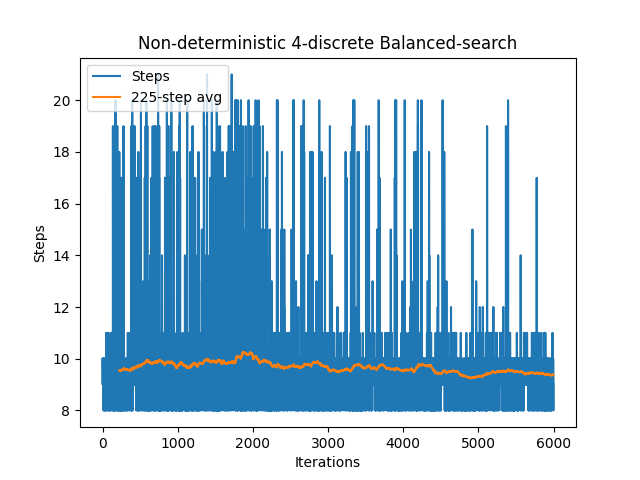
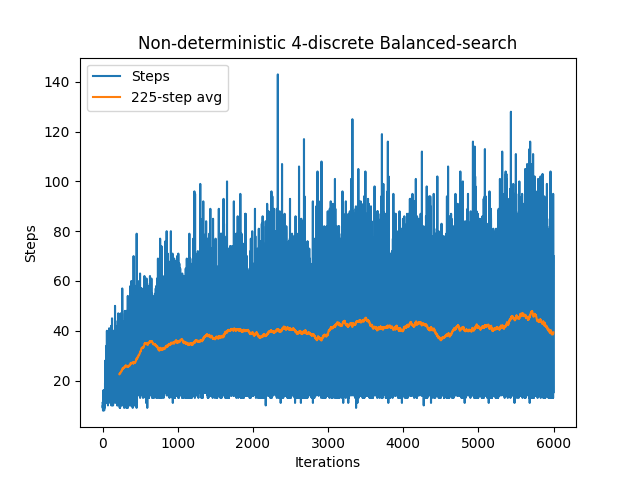
Recovered old version of discreteTree

diff --git a/classes/OldCartPoleNode.py b/classes/OldCartPoleNode.py
@@ -1,0 +1,236 @@
+import random
+from helper.strategy_names import *
+
+
+##### Constants ########
+RISK_THRESHOLD = 4.5
+EXPLORE_PERCENTAGE = 0.5
+STRATEGY = BALANCED
+ACCURACY_LIMIT = 0.1
+
+PRINT_CHOICES = False
+
+########################
+
+class OldCartPoleTreeNode:
+    def __init__(self, state, time_step, strategy, id):
+        self.name = "test"
+        self.children = [{}, {}]
+        self.state = state
+        self.time_step = time_step
+        self.is_final = False
+        self.max_depth = [1, 1]
+        self.max_unexplored_depth = [1, 1]
+        self.risk_weighted_score = self.update_risk_weighted_score()
+        self.holes_beneath = [1, 1]
+        self.most_recent_choice = -1
+        self.strategy = strategy
+        self.visited = 0
+        self.id = id
+        self.odds_of_unvisited_below = 1
+
+    def mark_final(self):
+        self.max_depth = [0, 0]
+        self.max_unexplored_depth = [0, 0]
+        self.risk_weighted_score = [0, 0]
+        self.holes_beneath = [0, 0]
+        self.is_final = True
+        self.visited += 1
+
+
+    def update(self):
+        if not self.children[0] and not self.children[1]:
+            self.max_depth = [self.average_max_depth(self.children[0]), self.average_max_depth(self.children(1))]
+            self.max_unexplored_depth = [self.average_max_unexplored_depth(self.children[0]), self.average_max_unexplored_depth(self.children(1))]
+            if max(self.max_unexplored_depth) >= 0.5:
+                self.max_unexplored_depth += 1
+            self.holes_beneath = [self.average_holes_beneath(self.children[0]), self.average_holes_beneath(self.children(1))]
+        else:
+            i = self.most_recent_choice
+            self.max_depth[i] = self.average_max_depth(self.children[1])
+            self.max_unexplored_depth[i] = self.average_max_unexplored_depth(self.children[1]) #TODO check if this is correct
+            self.holes_beneath[i] = self.average_holes_beneath(self.children[i])
+        self.visited += 1
+        self.risk_weighted_score = self.update_risk_weighted_score()
+
+
+    def get_state_bucket(self):
+        bucket = [round(val/ACCURACY_LIMIT)*ACCURACY_LIMIT for val in self.state]
+        return str(bucket)
+
+    def calc_state_bucket(self, new_state):
+        bucket = [round(val/ACCURACY_LIMIT)*ACCURACY_LIMIT for val in new_state]
+        return str(bucket)
+
+    def register_move(self, new_state, new_time_step, direction):
+        bucket = self.calc_state_bucket(new_state)
+        if bucket in self.children[direction]:
+            self.children[direction][bucket].strategy = self.strategy
+        else:
+            id = self.id + str(self.most_recent_choice)
+            self.children[direction][bucket] = OldCartPoleTreeNode(new_state, new_time_step, self.strategy, id)
+        return self.children[direction][bucket]
+
+    def register_existing(self, new_node, new_time_step, direction):
+        bucket = new_node.get_state_bucket()
+        if bucket in self.children[direction]:
+            self.children[direction][bucket].strategy = self.strategy
+        else:
+            id = self.id + str(self.most_recent_choice)
+            self.children[direction][bucket] = new_node
+            self.children[direction][bucket].strategy = self.strategy
+        return self.children[direction][bucket]
+
+    def child_has_unexplored(self, child):
+        for state, node in self.children[child].items():
+            if max(node.max_unexplored_depth) > 0:
+                return True
+        return False
+
+    def pick_action(self, new_strategy=None):
+        if new_strategy != None:
+            self.strategy = new_strategy
+
+        if self.strategy == MAXIMIZE_POINTS:
+            choice = self.maximize_points()
+        elif self.strategy == BALANCED:
+            if self.time_step == 0 and self.consider_explore():
+                choice = self.explore()
+                self.strategy = EXPLORE
+            else:
+                choice = self.maximize_points()
+        elif self.strategy == EXPLORE:
+            return self.explore()
+        else:
+            choice = 0
+        self.most_recent_choice = choice
+        return choice
+
+    def states_are_equal(self, obs1, obs2):
+        if len(obs1) != len(obs2):
+            return False
+        for i in range(len(obs1)):
+            if obs1[i] != obs2[i]:
+                return False
+        return True
+
+    def risk_weighted_score_of_child(self, child):
+        if self.is_final:
+            return 0
+        if not child:
+            return 1 + RISK_THRESHOLD
+        total_sum = self.average_max_depth(child)
+        unexplored_sum = self.average_max_unexplored_depth(child) + RISK_THRESHOLD
+
+        return max(total_sum, unexplored_sum)
+
+    def best_risk_weighted_score(self):
+        return max(self.risk_weighted_score)
+
+    def average_max_depth(self, child):
+        if self.is_final:
+            return 0
+        if not child:
+            return 1
+        sum = 0
+        visited = 0
+        for key, node in child.items():
+            visited += node.visited
+            sum += node.visited * (node.max_depth[0] + node.max_depth[1])
+        sum /= visited
+        return sum + 1
+
+    def average_max_unexplored_depth(self, child):
+        if self.is_final:
+            return 0
+        if not child:
+            return 1
+        sum = 0
+        more_than_1 = 0
+        visited = 0
+        for key, node in child.items():
+            visited += node.visited
+            sum += node.visited * max(node.max_unexplored_depth)
+            more_than_1 += node.visited * (1 if max(node.max_unexplored_depth) >= 1 else 0)
+        sum /= visited
+        if more_than_1 < visited*0.5:
+            sum = -1
+        return sum + 1
+
+    def average_holes_beneath(self, child):
+        if self.is_final:
+            return 0
+        if not child:
+            return 1
+        sum = 0
+        visited = 0
+        for key, node in child.items():
+            visited += node.visited
+            sum += node.visited * (node.holes_beneath[0] + node.holes_beneath[1])
+        sum /= visited
+        return sum
+
+
+    def update_risk_weighted_score(self):
+        return [self.risk_weighted_score_of_child(self.children[0]),
+                                        self.risk_weighted_score_of_child(self.children[1])]
+
+    def explore(self):
+        left_explorable = not self.children[0] or self.child_has_unexplored(0)
+        right_explorable = not self.children[1] or self.child_has_unexplored(1)
+        if left_explorable and not right_explorable:
+            return 0
+        if right_explorable and not left_explorable:
+            return 1
+        return self.maximize_points()
+
+    def maximize_points(self):
+        left_score = self.risk_weighted_score[0]
+        right_score = self.risk_weighted_score[1]
+        if left_score == right_score:
+            return 0
+        if PRINT_CHOICES:
+            print(f"{self.id=}, Choosing {0 if left_score > right_score else 1}, {left_score=}, {right_score=}")
+            input()
+        return 0 if left_score > right_score else 1
+
+    def consider_explore(self):
+        should_explore = random.random() < EXPLORE_PERCENTAGE
+        return should_explore
+
+    def set_root_strategy(self, strategy):
+        self.strategy = strategy
+
+    def visualize_tree(self):
+        if self.children[0] == None and self.children[1] == None:
+            return [1]
+        if self.children[0] != None and self.children[1] != None:
+            vis_list = [1]
+            visual_0 = self.children[0].visualize_tree()
+            visual_1 = self.children[1].visualize_tree()
+            for i in range(max(len(visual_1), len(visual_0))):
+                sum = 0
+                if len(visual_0) > i:
+                    sum += visual_0[i]
+                if len(visual_1) > i:
+                    sum += visual_1[i]
+                vis_list.append(sum)
+            return [1] + vis_list
+        i = 0 if self.children[0] != None else 1
+        return [1] + self.children[i].visualize_tree()
+
+    def show_selected_path(self):
+        if self.most_recent_choice == -1:
+            return ""
+        return str(self.most_recent_choice) + self.children[self.most_recent_choice].show_selected_path()
+
+
+
+
+
+
+
+
+
+
+

diff --git a/cartPole/oldDiscreteTree.py b/cartPole/oldDiscreteTree.py
@@ -5,10 +5,10 @@ import matplotlib.pyplot as plt
 import pandas as pd
 
 import helper.plotHelper as plotHelper
-from helper.strategy_names import *
 import helper.KNearestNeighbor as kNearest
+from helper.strategy_names import *
 import helper.fileHelper as fileHelper
-from classes.cartPoleTreeNode import *
+from classes.OldCartPoleNode import *
 
 
 ############### Constants ###################
@@ -29,12 +29,12 @@ K_START = 1
 K_END = 1
 K_STEP = 1
 
-STEPS_PER_NODE = 5
+STEPS_PER_NODE = 1
 DETERMINISTIC = False
-START_STRATEGY = BALANCED
+START_STRATEGY = MAXIMIZE_POINTS
 ########### End constants #################
 
-path = f"plots\\standard_tree\\{'deterministic' if DETERMINISTIC else 'non-deterministic'}\\{STEPS_PER_NODE}-discrete\\{CUTOFFPOINT}_gens"
+path = f"plots\\discrete_tree\\{'deterministic' if DETERMINISTIC else 'non-deterministic'}\\{STEPS_PER_NODE}-discrete\\{CUTOFFPOINT}_gens"
 fileHelper.createDirIfNotExist(path)
 
 if SHOW_GAMES:
@@ -47,7 +47,7 @@ if MANUAL_ROLLING_AVERAGE == -1:
 else:
     window_width = MANUAL_ROLLING_AVERAGE
 
-def run_k_nearest(k=-1, show_results=True, save_results=True, window_width=5):
+def run_k_nearest(k=-1, show_results=True, save_results=True):
     if k > 0:
         kNearest.K = k
     env = gym.make("CartPole-v1", render_mode=render_mode)
@@ -58,12 +58,17 @@ def run_k_nearest(k=-1, show_results=True, save_results=True, window_width=5):
     observation, info = env.reset(seed=0)
 
     steps_alive = 0
+    terminated_observations = np.zeros((0, 4))
+    terminated_observations_normalized = np.zeros((0, 4))
+    mean = np.zeros((4))
+    std = np.ones((4))
     action = 0
     last_it_succeeded = False
     its_before_finished = 0
 
+    all_nodes = {}
     data = np.array([], dtype=int)
-    root_node = CartPoleTreeNode(observation, 0, START_STRATEGY, "-")
+    root_node = OldCartPoleTreeNode(observation, 0, START_STRATEGY, "-")
     visited_nodes = []
     current_node = root_node
 
@@ -75,9 +80,14 @@ def run_k_nearest(k=-1, show_results=True, save_results=True, window_width=5):
 
         if steps_alive%STEPS_PER_NODE == 0:
             visited_nodes.append(current_node)
-            current_node = current_node.register_move(observation, steps_alive, action)
+            new_node_bucket = current_node.calc_state_bucket(observation)
+            if not new_node_bucket in all_nodes:
+                current_node = current_node.register_move(observation, steps_alive, action)
+                all_nodes[new_node_bucket] = current_node
 
-
+            else:
+                node = all_nodes[new_node_bucket]
+                current_node = current_node.register_existing(node, steps_alive, action)
         steps_alive += 1
 
         if (np.abs(observation[2]) > ANGLE or np.abs(observation[0]) > 2.4 or truncated):
@@ -117,7 +127,7 @@ def run_k_nearest(k=-1, show_results=True, save_results=True, window_width=5):
     plt.xlabel("Iterations")
     plt.ylabel("Steps")
     plt.legend(loc="upper left")
-    plt.title(f"{'Deterministic' if DETERMINISTIC else 'Non-deterministic'} {STEPS_PER_NODE}-discrete {name_of_strategy(START_STRATEGY)} search")
+    plt.title(f"{'Deterministic' if DETERMINISTIC else 'Non-deterministic'} {STEPS_PER_NODE}-discrete {name_of_strategy(START_STRATEGY)}-search")
 
     plot_name = path + f"\\{name_of_strategy(START_STRATEGY)}_plot.png"
     if save_results:
@@ -174,4 +184,4 @@ def run_and_compare_range_k_nearest(bottom, top, window_width, step=1):
 if __name__ == '__main__':
     run_k_nearest(show_results=False)
     #run_and_compare_range_k_nearest(K_START, K_END, window_width, K_STEP)
-    print("Finished")
+    print("Finished with new")
